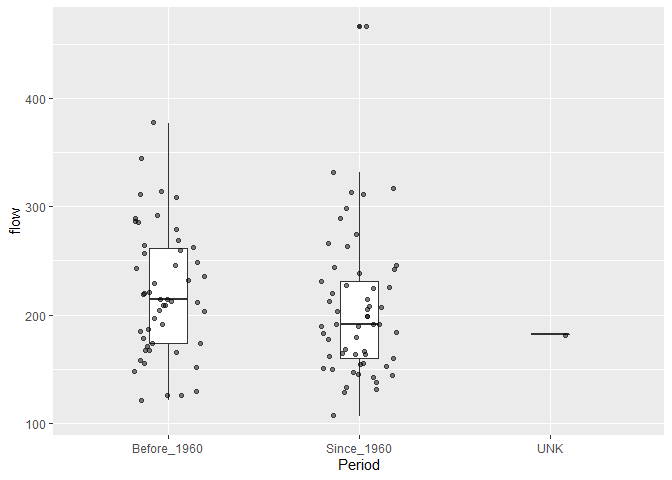
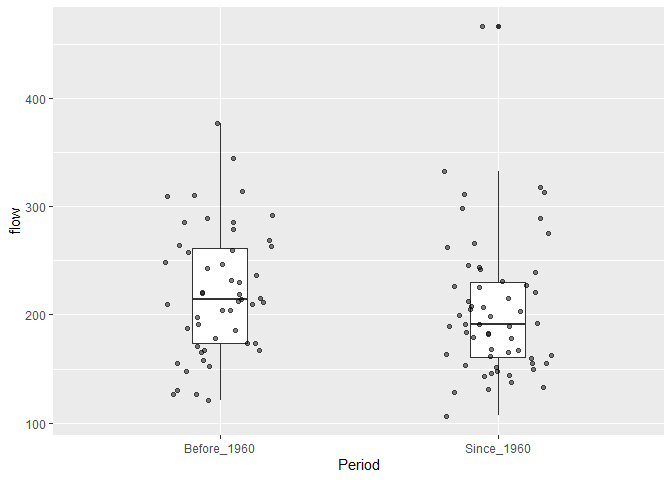
Final Updates finished

diff --git a/Milestone1/AKu_MiniDataAnalysis_1.md b/Milestone1/AKu_MiniDataAnalysis_1.md
@@ -33,17 +33,24 @@ library(tidyverse)
 
 **1.1 Choose 4 of the datateachr packages that appeal to you**
 
-1.  building_permits
+1.  building_permits: Acquired courtesy of The City of Vancouver’s Open
+    Data Portal. It currently has 20680 rows and 14 columns.
 
-2.  flow_sample
+2.  flow_sample: Acquired courtesy of The Government of Canada’s
+    Historical Hydrometric Database. It currently has 218 rows and 7
+    columns.
 
-3.  steam_games
+3.  steam_games: steam_games: Acquired courtesy of Kaggle. It currently
+    has 40833 rows and 21 columns.
 
-4.  vancouver_trees
+4.  vancouver_trees: Acquired courtesy of The City of Vancouver’s Open
+    Data Portal. It currently has 146611 rows and 20 columns
 
 **1.2 Explore the dataset**
 
 Explore **building_permits** dataset
+
+##### The **building_permits** dataset has information about the building, including the location, the permit information, the contractor, and the intended use of the property.
 
 What dataframe?
 
@@ -60,22 +67,6 @@ dim(building_permits)
 ```
 
     ## [1] 20680    14
-
-How many rows is the data? To guage data complexity
-
-``` r
-nrow(building_permits)
-```
-
-    ## [1] 20680
-
-How many columns is the data? To guage data complexity
-
-``` r
-ncol(building_permits)
-```
-
-    ## [1] 14
 
 Print the data
 
@@ -102,6 +93,8 @@ glimpse(building_permits)
 
 Explore **flow_sample** dataset
 
+##### The **flow_sample** dataset has information about the flow at a specific station over several decades, including information about the time that the data was collected.
+
 What dataframe?
 
 ``` r
@@ -117,22 +110,6 @@ dim(flow_sample)
 ```
 
     ## [1] 218   7
-
-How many rows is the data? To guage data complexity
-
-``` r
-nrow(flow_sample)
-```
-
-    ## [1] 218
-
-How many columns is the data? To guage data complexity
-
-``` r
-ncol(flow_sample)
-```
-
-    ## [1] 7
 
 Print the data
 
@@ -168,22 +145,6 @@ dim(steam_games)
 
     ## [1] 40833    21
 
-How many rows is the data? To guage data complexity
-
-``` r
-nrow(steam_games)
-```
-
-    ## [1] 40833
-
-How many columns is the data? To guage data complexity
-
-``` r
-ncol(steam_games)
-```
-
-    ## [1] 21
-
 Print the data
 
 ``` r
@@ -216,6 +177,8 @@ glimpse(steam_games)
 
 Explore **vancouver_trees** dataset
 
+##### The **vancouver_trees** dataset has information about the physical and identifing characteristics of the tree and the location of the tree within the city.
+
 What dataframe?
 
 ``` r
@@ -233,20 +196,6 @@ dim(vancouver_trees)
     ## [1] 146611     20
 
 How many rows is the data? To guage data complexity
-
-``` r
-nrow(vancouver_trees)
-```
-
-    ## [1] 146611
-
-How many columns is the data? To guage data complexity
-
-``` r
-ncol(vancouver_trees)
-```
-
-    ## [1] 20
 
 Print the data
 
@@ -328,7 +277,7 @@ print(sample_dist)
 
     ## Warning: Removed 2 rows containing missing values (geom_point).
 
-![](AKu_MiniDataAnalysis_1_files/figure-gfm/unnamed-chunk-22-1.png)<!-- -->
+![](AKu_MiniDataAnalysis_1_files/figure-gfm/unnamed-chunk-14-1.png)<!-- -->
 
 2.  Explore the relationship between 2 variables in a plot: Plot the
     minimum and maximum flows over months in seperate plots to see the
@@ -361,7 +310,7 @@ print(Extreme_Flow_Month)
 
     ## Warning: Removed 2 rows containing missing values (geom_point).
 
-![](AKu_MiniDataAnalysis_1_files/figure-gfm/unnamed-chunk-23-1.png)<!-- -->
+![](AKu_MiniDataAnalysis_1_files/figure-gfm/unnamed-chunk-15-1.png)<!-- -->
 
 3.  Filter observations according to time, where we can look at recent
     data starting in 1960, and before 1960. Then plot the observations
@@ -397,7 +346,7 @@ MaxSince_1960_plot <- ggplot(MaxSince_1960) +
 print(MaxSince_1960_plot)
 ```
 
-![](AKu_MiniDataAnalysis_1_files/figure-gfm/unnamed-chunk-25-1.png)<!-- -->
+![](AKu_MiniDataAnalysis_1_files/figure-gfm/unnamed-chunk-17-1.png)<!-- -->
 
 Filter for historical years, since before 1960
 
@@ -430,7 +379,7 @@ MaxBefore_1960_plot <- ggplot(MaxBefore_1960) +
 print(MaxBefore_1960_plot)
 ```
 
-![](AKu_MiniDataAnalysis_1_files/figure-gfm/unnamed-chunk-27-1.png)<!-- -->
+![](AKu_MiniDataAnalysis_1_files/figure-gfm/unnamed-chunk-19-1.png)<!-- -->
 
 4.  Plot the flow in boxplots to see the distribution within minimum and
     maximum flows Filter by Maximum Flow
@@ -464,7 +413,7 @@ Max_Box <- ggplot(Max_only, aes(extreme_type, flow)) +
 print(Max_Box)
 ```
 
-![](AKu_MiniDataAnalysis_1_files/figure-gfm/unnamed-chunk-29-1.png)<!-- -->
+![](AKu_MiniDataAnalysis_1_files/figure-gfm/unnamed-chunk-21-1.png)<!-- -->
 
 Filter by minimum flow
 
@@ -499,7 +448,7 @@ print(Min_Box)
 
     ## Warning: Removed 2 rows containing non-finite values (stat_boxplot).
 
-![](AKu_MiniDataAnalysis_1_files/figure-gfm/unnamed-chunk-31-1.png)<!-- -->
+![](AKu_MiniDataAnalysis_1_files/figure-gfm/unnamed-chunk-23-1.png)<!-- -->
 
 **2.2 Explain the exercise in relation to flow_samples**
 

diff --git a/Milestone2/AKu_MiniDataAnalysis_2.md b/Milestone2/AKu_MiniDataAnalysis_2.md
@@ -42,9 +42,7 @@ range of flow from 1960 to present day?*
 ``` r
 flow_sample_PeriodMax <- flow_sample %>% 
   filter(extreme_type == 'maximum') %>%  
-  mutate(Period = case_when(year > 1960 ~ "Since_1960",
-                             year < 1960 ~ "Before_1960",
-                             TRUE ~ "UNK"))
+  mutate(Period = case_when(year > 1959 ~ "Since_1960", TRUE ~ "Before_1960"))
 print(flow_sample_PeriodMax)
 ```
 
@@ -84,16 +82,14 @@ FlowPeriod_summaryMax <- flow_sample_PeriodMax %>%
 print(FlowPeriod_summaryMax)
 ```
 
-    ## # A tibble: 6 x 7
-    ## # Groups:   Period [3]
+    ## # A tibble: 4 x 7
+    ## # Groups:   Period [2]
     ##   Period      range  mean   min   max median stdDev
     ##   <chr>       <dbl> <dbl> <dbl> <dbl>  <dbl>  <dbl>
     ## 1 Before_1960   121  221.   121   377    214   59.0
     ## 2 Before_1960   377  221.   121   377    214   59.0
-    ## 3 Since_1960    107  205.   107   466    191   64.0
-    ## 4 Since_1960    466  205.   107   466    191   64.0
-    ## 5 UNK           182  182    182   182    182   NA  
-    ## 6 UNK           182  182    182   182    182   NA
+    ## 3 Since_1960    107  205.   107   466    191   63.5
+    ## 4 Since_1960    466  205.   107   466    191   63.5
 
 #### Graphing
 
@@ -122,11 +118,7 @@ seasons?*
 ``` r
 # Create new column for each season
 flow_sample_Seasons <- flow_sample %>% 
-   mutate(season = case_when(month < 3 ~ "winter",
-                                 month < 6 ~ "spring",
-                                 month < 9 ~ "summer",
-                                 month < 12 ~ "autumn",
-                                 TRUE ~ "winter"))
+   mutate(season = case_when(month < 3 ~ "winter", month < 6 ~ "spring", month < 9 ~ "summer", TRUE ~ "autumn"))
 print(flow_sample_Seasons)
 ```
 
@@ -163,9 +155,9 @@ print(nExtremeType)
     ##   <chr>        <chr>  <int>
     ## 1 maximum      spring    16
     ## 2 maximum      summer    93
-    ## 3 minimum      autumn     5
+    ## 3 minimum      autumn    21
     ## 4 minimum      spring    45
-    ## 5 minimum      winter    59
+    ## 5 minimum      winter    43
 
 #### Graphing
 
